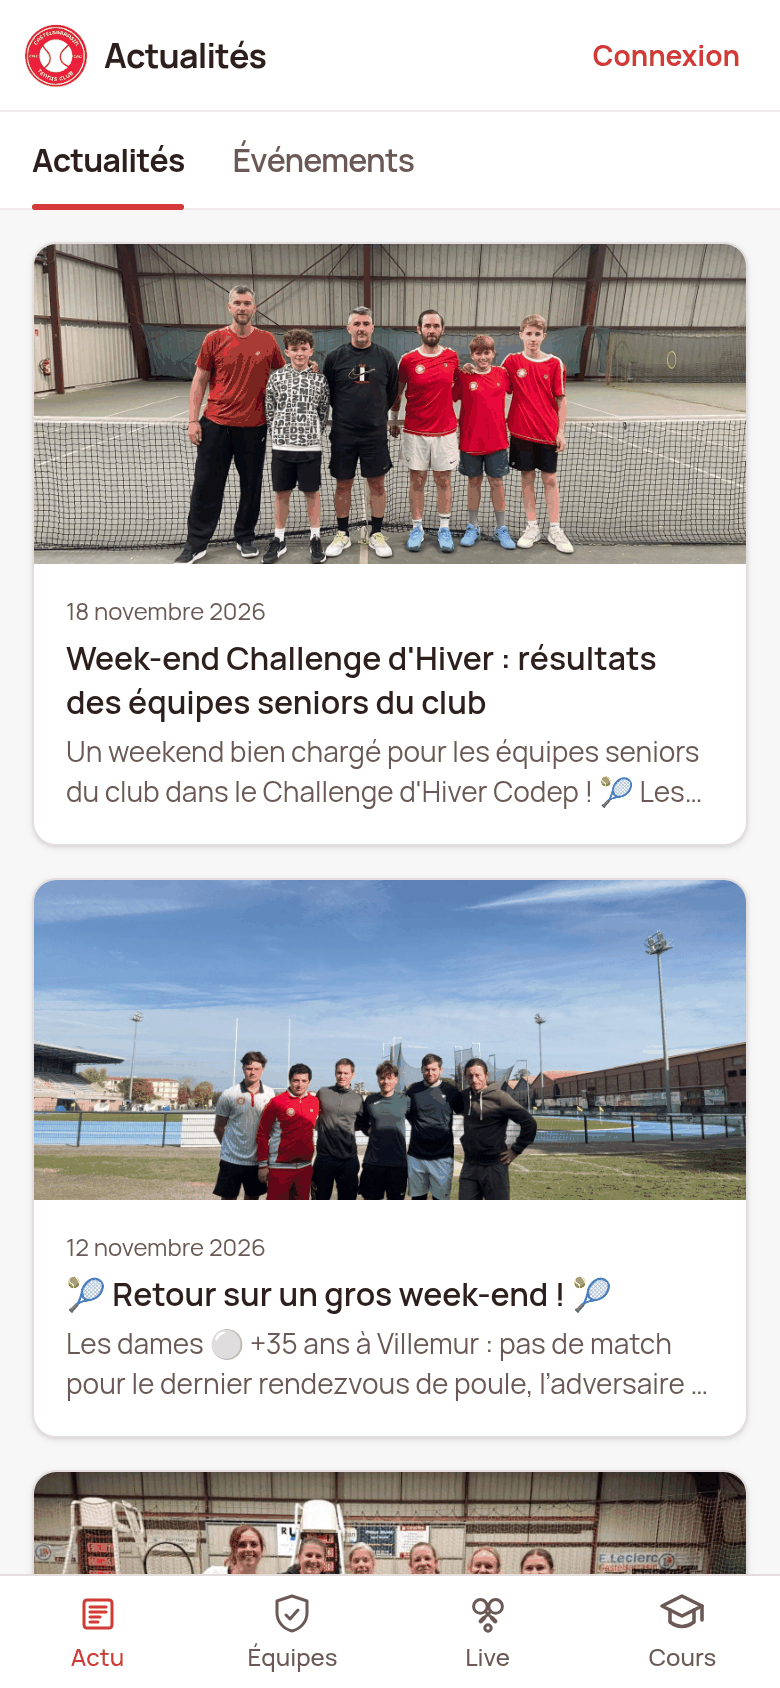
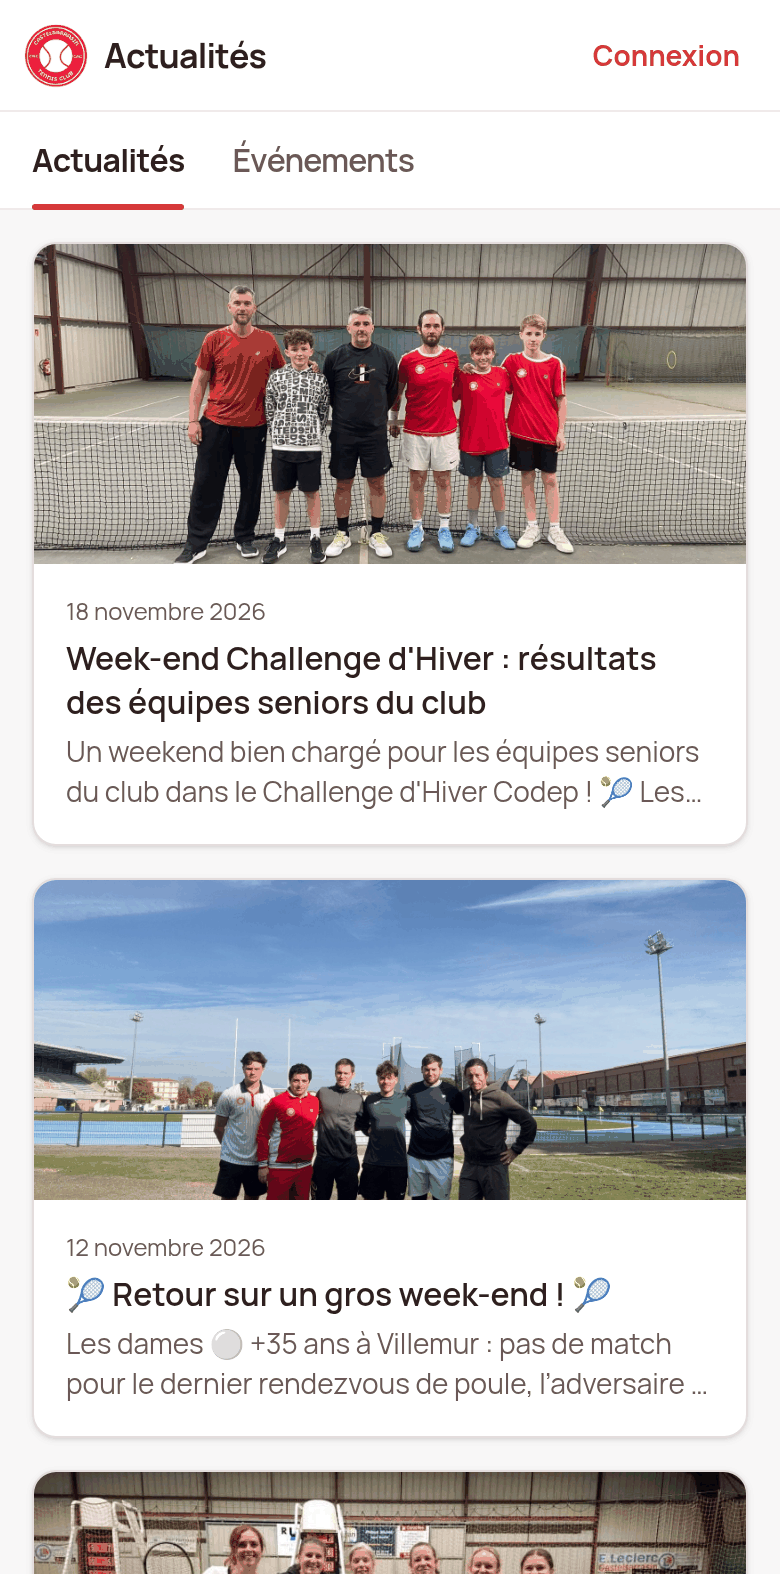
fix(landing): écran du téléphone aux vraies cotes d'un iPhone
Barre d'état de 59 pt sous l'encoche, barre d'onglets fixée en bas avec la zone d'accueil de 34 pt ;
score et notification ne couvrent plus l'en-tête ni les onglets, ombres allégées.

diff --git a/landing/src/styles/global.css b/landing/src/styles/global.css
@@ -143,16 +143,24 @@ img { display: block; max-width: 100%; height: auto; }
 
 /* Visuel : vraie capture de l'app du CAC, notification et score de démo par-dessus. */
 .hero-stage { position: relative; height: 600px; }
-.hero-phone { position: absolute; left: 8%; top: 0; width: 280px; height: 580px; padding: 10px; border-radius: 44px; background: #0b0a09; box-shadow: 0 40px 80px rgba(0, 0, 0, 0.55), 0 0 0 1px rgba(255, 255, 255, 0.08); }
-.hero-phone__screen { position: relative; height: 100%; overflow: hidden; border-radius: 35px; background: #fff; }
+/* Cotes d'un iPhone en points (390 × 844) : barre d'état 59, barre d'onglets 57, zone d'accueil 34. */
+.hero-phone { --pt: calc(260px / 390); position: absolute; left: 8%; top: 0; padding: 10px; border-radius: 46px; background: #0b0a09; box-shadow: 0 40px 80px rgba(0, 0, 0, 0.55), 0 0 0 1px rgba(255, 255, 255, 0.08); }
+.hero-phone__screen { width: calc(390 * var(--pt)); height: calc(844 * var(--pt)); display: flex; flex-direction: column; overflow: hidden; border-radius: calc(54 * var(--pt)); background: #fff; color: #000; }
+.hero-phone__status { position: relative; flex: none; height: calc(59 * var(--pt)); display: flex; align-items: center; justify-content: space-between; padding: 0 calc(30 * var(--pt)) 0 calc(46 * var(--pt)); font-size: calc(17 * var(--pt)); font-weight: 600; line-height: 1; }
+.hero-phone__status svg { width: calc(68 * var(--pt)); height: auto; }
+.hero-phone__island { position: absolute; top: calc(11 * var(--pt)); left: 50%; width: calc(124 * var(--pt)); height: calc(37 * var(--pt)); transform: translateX(-50%); border-radius: 999px; background: #000; }
+.hero-phone__content { flex: 1; min-height: 0; overflow: hidden; }
 .hero-phone__screen img { width: 100%; height: auto; }
-.hero-phone__island { position: absolute; z-index: 1; top: 10px; left: 50%; width: 84px; height: 24px; transform: translateX(-50%); border-radius: 14px; background: #000; }
-.hero-notif { position: absolute; right: 0; top: 70px; width: 300px; display: flex; gap: 10px; padding: 12px 14px; border-radius: 16px; background: rgba(243, 241, 235, 0.97); color: var(--fl-night); box-shadow: 0 20px 50px rgba(0, 0, 0, 0.45); font-size: 13px; line-height: 1.35; }
+.hero-phone__tabs { position: relative; flex: none; padding-bottom: calc(34 * var(--pt)); background: #fff; }
+.hero-phone__tabs::after { content: ''; position: absolute; left: 50%; bottom: calc(8 * var(--pt)); width: calc(134 * var(--pt)); height: calc(5 * var(--pt)); transform: translateX(-50%); border-radius: 999px; background: #000; }
+.hero-notif { position: absolute; right: 0; top: 128px; width: 300px; display: flex; gap: 10px; padding: 12px 14px; border-radius: 16px; background: rgba(243, 241, 235, 0.97); color: var(--fl-night); box-shadow: 0 6px 18px rgba(0, 0, 0, 0.22); font-size: 13px; line-height: 1.35; }
 .hero-notif img { width: 34px; height: 34px; flex: none; padding: 4px; border-radius: 8px; background: #fff; border: 1px solid rgba(19, 18, 15, 0.12); }
 .hero-notif b { display: block; font-size: 13.5px; }
 .hero-notif__at { margin-left: auto; font-size: 11px; color: #5d5950; }
-.hero-stage .sb { position: absolute; right: 0; bottom: 48px; width: 340px; }
-.hero-stage__cap { position: absolute; left: 0; bottom: 0; margin: 0; font-family: var(--font-mono); font-size: 11px; letter-spacing: 0.06em; text-transform: uppercase; color: var(--text-muted); }
+.hero-stage .sb { position: absolute; right: 0; bottom: 112px; width: 340px; }
+/* Ombres courtes : elles ne doivent pas griser l'écran du téléphone. */
+.hero-stage .sb__board { box-shadow: 0 6px 18px rgba(0, 0, 0, 0.22); }
+.hero-stage__cap { position: absolute; left: 8%; bottom: 0; margin: 0; font-family: var(--font-mono); font-size: 11px; letter-spacing: 0.06em; text-transform: uppercase; color: var(--text-muted); }
 
 /* Score de démo (compact) */
 .sb__tag { display: flex; align-items: stretch; font-family: var(--font-mono); font-size: 11px; letter-spacing: 0.08em; text-transform: uppercase; }
@@ -439,11 +447,11 @@ button.sb__row:focus-visible { outline: 2px solid var(--accent); outline-offset:
   .tenup { flex-direction: column; }
   .tenup__field { padding: 8px 10px; }
   .hero__player { display: flex; border-radius: 14px; }
-  .hero-stage { height: 520px; }
-  .hero-phone { left: 0; width: 240px; height: 500px; border-radius: 38px; padding: 8px; }
-  .hero-phone__screen { border-radius: 31px; }
-  .hero-notif { top: 40px; width: min(250px, 72%); font-size: 12px; }
-  .hero-stage .sb { bottom: 40px; width: min(320px, 92%); }
+  .hero-stage { height: 580px; }
+  .hero-phone { --pt: calc(240px / 390); left: 0; padding: 8px; border-radius: 41px; }
+  .hero-notif { top: 112px; width: min(250px, 72%); font-size: 12px; }
+  .hero-stage__cap { left: 0; }
+  .hero-stage .sb { bottom: 124px; width: min(320px, 92%); }
   .mbar { display: block; position: fixed; z-index: 14; left: 0; right: 0; bottom: 0; padding: 10px 16px calc(10px + env(safe-area-inset-bottom)); background: color-mix(in oklab, var(--bg) 92%, transparent); backdrop-filter: blur(12px); border-top: 1px solid var(--line); transform: translateY(110%); transition: transform .25s ease; }
   .mbar.is-on { transform: none; }
   .mbar .btn { display: block; width: 100%; padding: 15px 12px; border-radius: 10px; font-family: var(--font-body); font-size: 15.5px; font-weight: 600; text-transform: none; letter-spacing: 0; }

diff --git a/landing/README.md b/landing/README.md
@@ -28,7 +28,7 @@ Node 22 (Astro 7.3 exige ≥ 22.12).
 | `src/components/*.astro` | Une section = un composant |
 | `src/config.ts` | Lecture des variables `PUBLIC_*` et règle des CTA |
 | `src/assets/affiche-resultat.png` | Moitié « Avec feelike.pro » du curseur : affiche de résultat produite par `renderResultPoster()` du BO, données fictives de la rencontre de gauche |
-| `src/assets/hero/` | Hero : capture réelle de l'app du CAC Tennis Club (fil des actus, avec photos de joueurs) et logo du CAC. Accord du club CAC donné par Maxime le 22/11/2026 ; **accord écrit des personnes photographiées (dont de possibles mineurs) à confirmer** ; aucun autre club sans accord noté ici |
+| `src/assets/hero/` | Hero : capture réelle de l'app du CAC Tennis Club (fil des actus, avec photos de joueurs), coupée en deux images 780 px de large (`app-cac-actus` jusqu'à y = 1574, `app-cac-onglets` pour la barre d'onglets) et logo du CAC. La barre d'état et l'indicateur d'accueil sont ajoutés en HTML/CSS aux cotes d'un iPhone. Accord du club CAC donné par Maxime le 22/11/2026 ; **accord écrit des personnes photographiées (dont de possibles mineurs) à confirmer** ; aucun autre club sans accord noté ici |
 | `src/assets/captures/` | Captures réelles de la section « trois courts » : `site`, `app`, `backoffice` (`.png`, `.jpg` ou `.webp`). Tant qu'un fichier manque, l'emplacement hachuré de la maquette reste affiché |
 | `public/` | `robots.txt` (robots IA autorisés), `llms.txt`, `og.png` (1200×630), `favicon.svg`, `favicon.ico` et `apple-touch-icon.png` (tirés de `logo.png`), `logo.png` |
 | `src/pages/mentions-legales.astro`, `cgv.astro` | **Contenu à fournir.** Pages en `noindex` et hors sitemap tant qu'elles sont vides |
